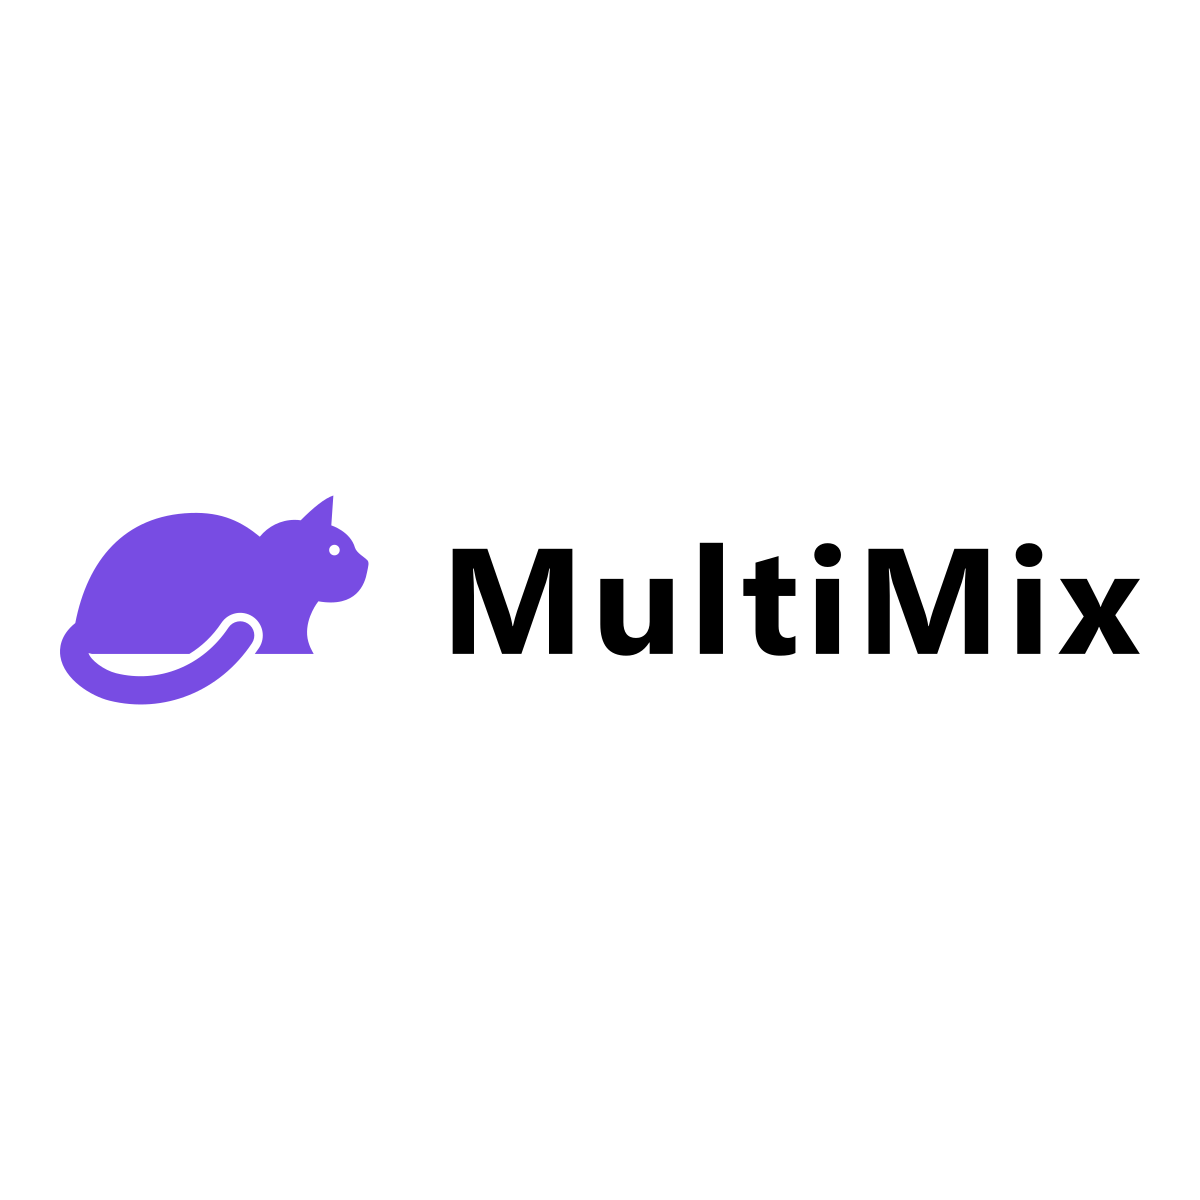
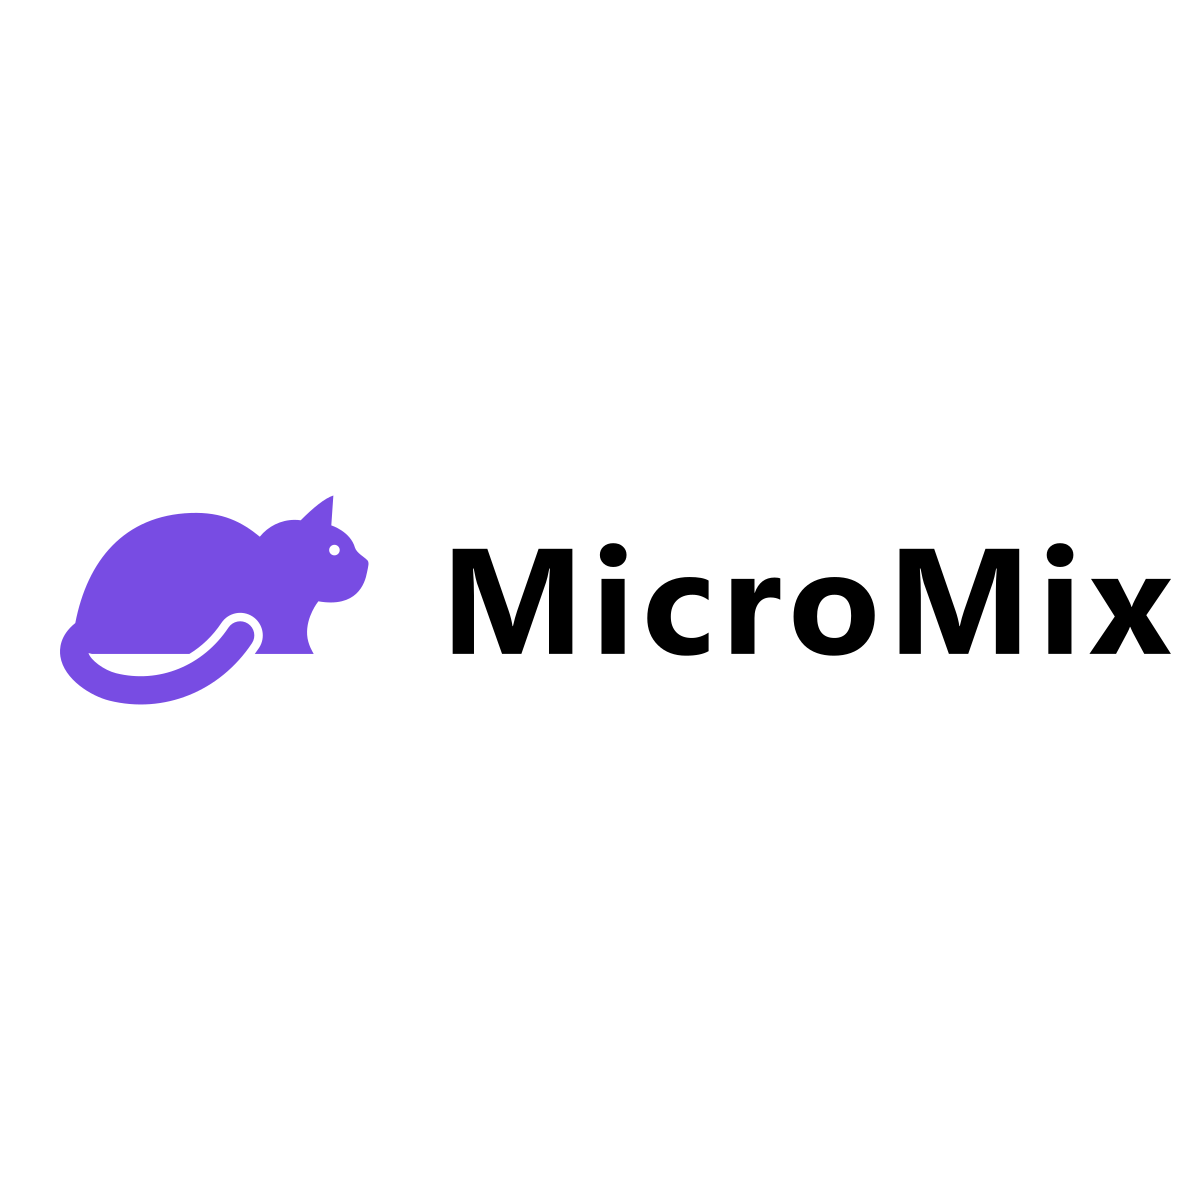
renamed to MicroMix

Changed region(s): [[0.4933, 0.4317, 0.9867, 0.555]]

diff --git a/frontend/ts/routes/deposit.tsx b/frontend/ts/routes/deposit.tsx
@@ -104,7 +104,6 @@ export default () => {
     getBalance(context).then((balance) => {
         if (balance) {
             const enough = balance.gte(ethers.utils.parseEther('0.11'))
-            console.log(enough)
             setEnoughEth(enough)
         }
     })
@@ -114,12 +113,12 @@ export default () => {
             <div className='column is-12'>
                 <div className='section first-section'>
                     <h2 className='subtitle'>
-                        MultiMix makes your Kovan ETH anonymous.
+                        MicroMix makes your Kovan ETH anonymous.
                     </h2>
 
                     <div className='column is-8 is-offset-2'>
                         <p>
-                            MultiMix is an Ethereum mixer based on
+                            MicroMix is an Ethereum mixer based on
                             zero-knowledge proofs.
                             It is highly experimental, likely insecure,
                             and not yet audited. Do not use it to mix real

diff --git a/frontend/index.html b/frontend/index.html
@@ -8,9 +8,9 @@
     <link rel="manifest" href="/site.webmanifest">
     <meta name="viewport" content="width=device-width, initial-scale=1">
     <link href="./less/index.less" rel="stylesheet">
-    <title>MultiMix</title>
-    <meta property="og:title" content="MultiMix" />
-    <meta property="og:url" content="https://multimix.app" />
+    <title>MicroMix</title>
+    <meta property="og:title" content="MicroMix" />
+    <meta property="og:url" content="https://micromix.app" />
     <meta property="og:description" content="A noncustodial Ethereum mixer" />
     <meta property="og:image" content="/img/og.png" />
     <meta property="og:image:width" content="1200" />
